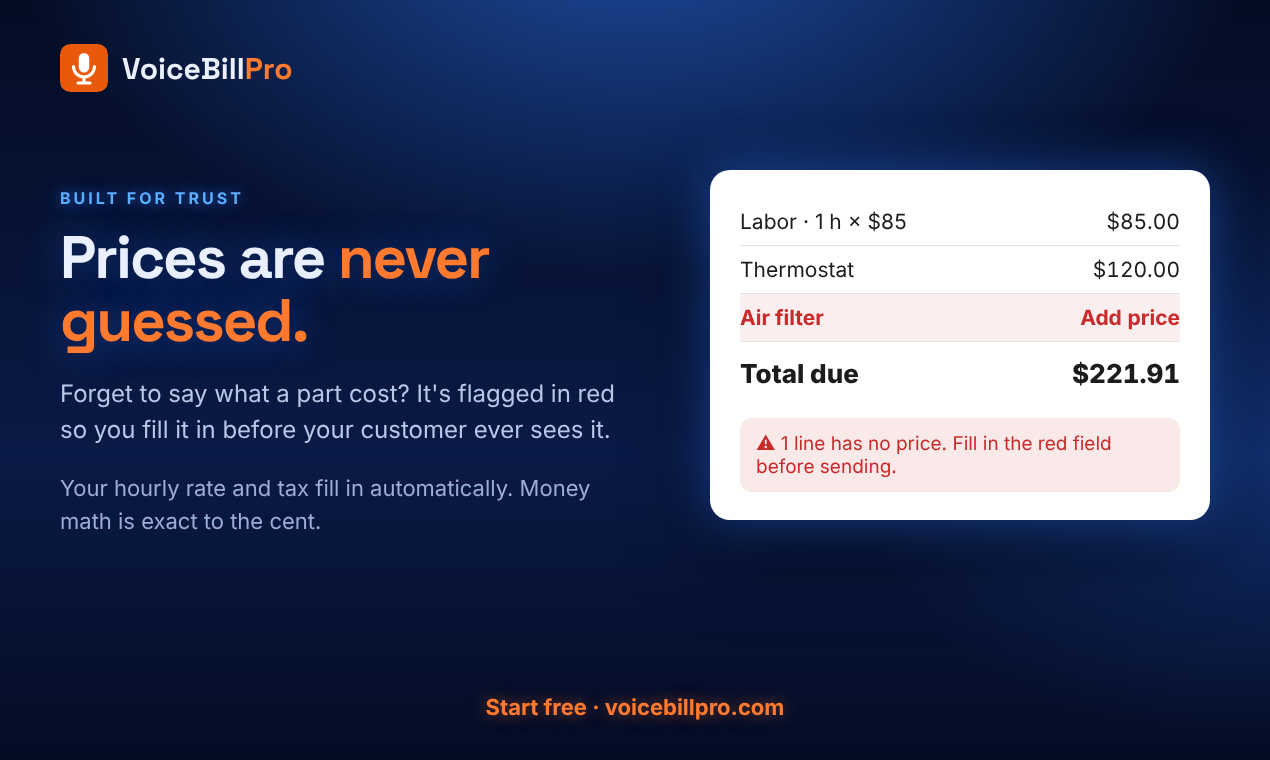
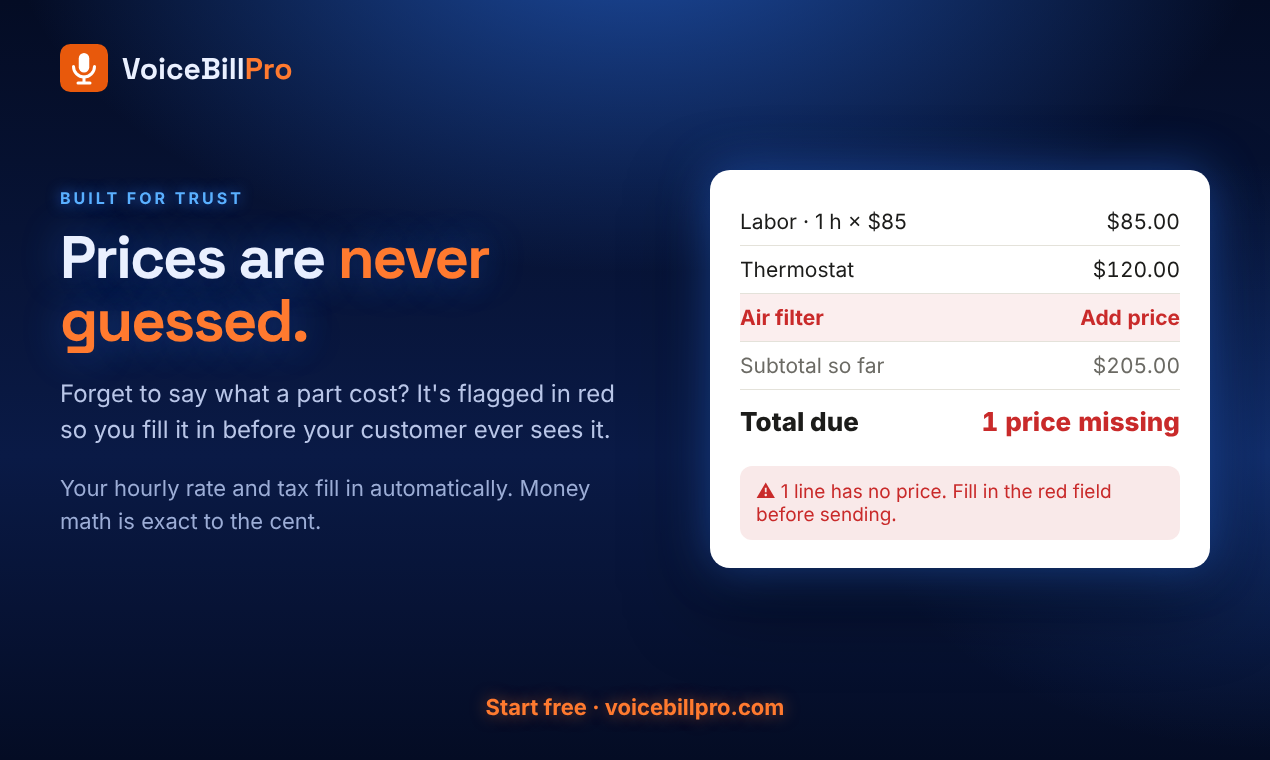
Hold the total while a price is missing, everywhere
The review screen and the contractor's invoice page show "Subtotal so
far" and "N price(s) missing" instead of a final tax and total until
every line is priced. The invoices list shows "Price missing" for those
invoices. The send confirmation explains the customer will see $0.00.
The customer's link still shows what was sent. Updates launch image 3,
which had the same contradiction.

Claude-Session: https://claude.ai/code/session_012DDJfi3yrfnzGQB28HkWJx

Changed region(s): [[0.5528, 0.5447, 0.952, 0.7566], [0.5835, 0.4539, 0.7063, 0.5145], [0.8291, 0.4539, 0.952, 0.5145]]

diff --git a/components/InvoiceView.tsx b/components/InvoiceView.tsx
@@ -4,9 +4,11 @@ import { t } from "@/lib/i18n";
 import type { InvoiceWithItems, Profile } from "@/lib/types";
 
 /** Read-only invoice layout, shared by the contractor view and the customer link. */
-export function InvoiceView({ invoice, profile }: { invoice: InvoiceWithItems; profile: Profile }) {
+export function InvoiceView({ invoice, profile, holdTotal = false }: { invoice: InvoiceWithItems; profile: Profile; holdTotal?: boolean }) {
   const logo = logoUrl(profile.logo_path);
   const s = t(invoice.language);
+  // Contractor's view: while a price is missing, don't present a final total.
+  const missing = holdTotal ? invoice.line_items.filter((i) => !(i.rate_cents > 0)).length : 0;
   return (
     <div className="card paper">
       <div className="doc-head">
@@ -54,18 +56,24 @@ export function InvoiceView({ invoice, profile }: { invoice: InvoiceWithItems; p
       <table className="tot">
         <tbody>
           <tr>
-            <td>{s.subtotal}</td>
+            <td>{missing > 0 ? "Subtotal so far" : s.subtotal}</td>
             <td className="n">{formatCents(invoice.subtotal_cents)}</td>
           </tr>
           {invoice.tax_rate_bps > 0 && (
             <tr>
               <td>{s.tax} ({bpsToPercentString(invoice.tax_rate_bps)}%)</td>
-              <td className="n">{formatCents(invoice.tax_cents)}</td>
+              <td className="n">{missing > 0 ? "—" : formatCents(invoice.tax_cents)}</td>
             </tr>
           )}
           <tr className="grand">
             <td>{s.totalDue}</td>
-            <td className="n">{formatCents(invoice.total_cents)}</td>
+            {missing > 0 ? (
+              <td className="n" style={{ color: "var(--danger)", fontSize: 16 }}>
+                {missing} price{missing === 1 ? "" : "s"} missing
+              </td>
+            ) : (
+              <td className="n">{formatCents(invoice.total_cents)}</td>
+            )}
           </tr>
         </tbody>
       </table>

diff --git a/app/invoices/page.tsx b/app/invoices/page.tsx
@@ -5,7 +5,7 @@ import { formatCents } from "@/lib/money";
 
 export const metadata = { title: "Invoices" };
 
-type Row = { id: string; number: number; customer_name: string; issued_on: string; status: "paid" | "unpaid"; total_cents: number };
+type Row = { id: string; number: number; customer_name: string; issued_on: string; status: "paid" | "unpaid"; total_cents: number; line_items: { rate_cents: number }[] };
 
 export default async function InvoicesPage({ searchParams }: { searchParams: Promise<{ show?: string }> }) {
   const { show } = await searchParams;
@@ -15,7 +15,7 @@ export default async function InvoicesPage({ searchParams }: { searchParams: Pro
   // Totals always cover every invoice; the filter only changes the list.
   const { data } = await supabase
     .from("invoices")
-    .select("id, number, customer_name, issued_on, status, total_cents")
+    .select("id, number, customer_name, issued_on, status, total_cents, line_items(rate_cents)")
     .order("number", { ascending: false })
     .limit(500);
   const all = (data ?? []) as Row[];
@@ -62,7 +62,11 @@ export default async function InvoicesPage({ searchParams }: { searchParams: Pro
                   </small>
                 </span>
                 <span style={{ whiteSpace: "nowrap" }}>
-                  {formatCents(i.total_cents)}
+                  {(i.line_items ?? []).some((l) => !(l.rate_cents > 0)) ? (
+                    <span className="pill missing">Price missing</span>
+                  ) : (
+                    formatCents(i.total_cents)
+                  )}
                   <span className={`pill ${i.status}`}>{i.status === "paid" ? "Paid" : "Unpaid"}</span>
                 </span>
               </Link>

diff --git a/components/InvoiceActions.tsx b/components/InvoiceActions.tsx
@@ -41,7 +41,9 @@ export function InvoiceActions({ invoice, profile, link, text }: { invoice: Invo
     }
     let confirmMissingPrices = false;
     if (missing > 0) {
-      confirmMissingPrices = window.confirm(`${missing} line${missing === 1 ? " has" : "s have"} no price. Send anyway?`);
+      confirmMissingPrices = window.confirm(
+        `${missing} line${missing === 1 ? " has" : "s have"} no price, so the total isn't final yet. Your customer will see $0.00 for ${missing === 1 ? "it" : "them"}. Send anyway?`,
+      );
       if (!confirmMissingPrices) return;
     }
     const { res, data } = await call("send", `/api/invoices/${invoice.id}/send`, { method: "POST", body: JSON.stringify({ confirmMissingPrices }) });
@@ -119,7 +121,7 @@ export function InvoiceActions({ invoice, profile, link, text }: { invoice: Invo
         {msg.err && <div className="err" role="alert">{msg.err}</div>}
         {msg.ok && <div className="okmsg">{msg.ok}</div>}
       </div>
-      <InvoiceView invoice={invoice} profile={profile} />
+      <InvoiceView invoice={invoice} profile={profile} holdTotal />
       {invoice.original_note && (
         <details className="card noprint">
           <summary className="muted">Original job note</summary>

diff --git a/components/InvoiceEditor.tsx b/components/InvoiceEditor.tsx
@@ -153,18 +153,24 @@ export function InvoiceEditor({
       <table className="tot" style={{ marginTop: 12 }}>
         <tbody>
           <tr>
-            <td>Subtotal</td>
+            <td>{missing > 0 ? "Subtotal so far" : "Subtotal"}</td>
             <td className="n">{formatCents(totals.subtotal_cents)}</td>
           </tr>
           {taxBps > 0 && (
             <tr>
               <td>Tax ({bpsToPercentString(taxBps)}%)</td>
-              <td className="n">{formatCents(totals.tax_cents)}</td>
+              <td className="n">{missing > 0 ? "—" : formatCents(totals.tax_cents)}</td>
             </tr>
           )}
           <tr className="grand">
             <td>Total due</td>
-            <td className="n">{formatCents(totals.total_cents)}</td>
+            {missing > 0 ? (
+              <td className="n" style={{ color: "var(--danger)", fontSize: 16 }}>
+                {missing} price{missing === 1 ? "" : "s"} missing
+              </td>
+            ) : (
+              <td className="n">{formatCents(totals.total_cents)}</td>
+            )}
           </tr>
         </tbody>
       </table>

diff --git a/app/globals.css b/app/globals.css
@@ -184,3 +184,4 @@ body:has(.landing) .topbar { display: none; }
 main { padding-bottom: 72px; }
 
 .savedTag { margin-top: 8px; font-size: 13px; color: #8ec5ff; }
+.pill.missing { background: var(--danger-bg); color: var(--danger); border: 1px solid rgba(255, 107, 107, 0.35); margin-left: 0; }
